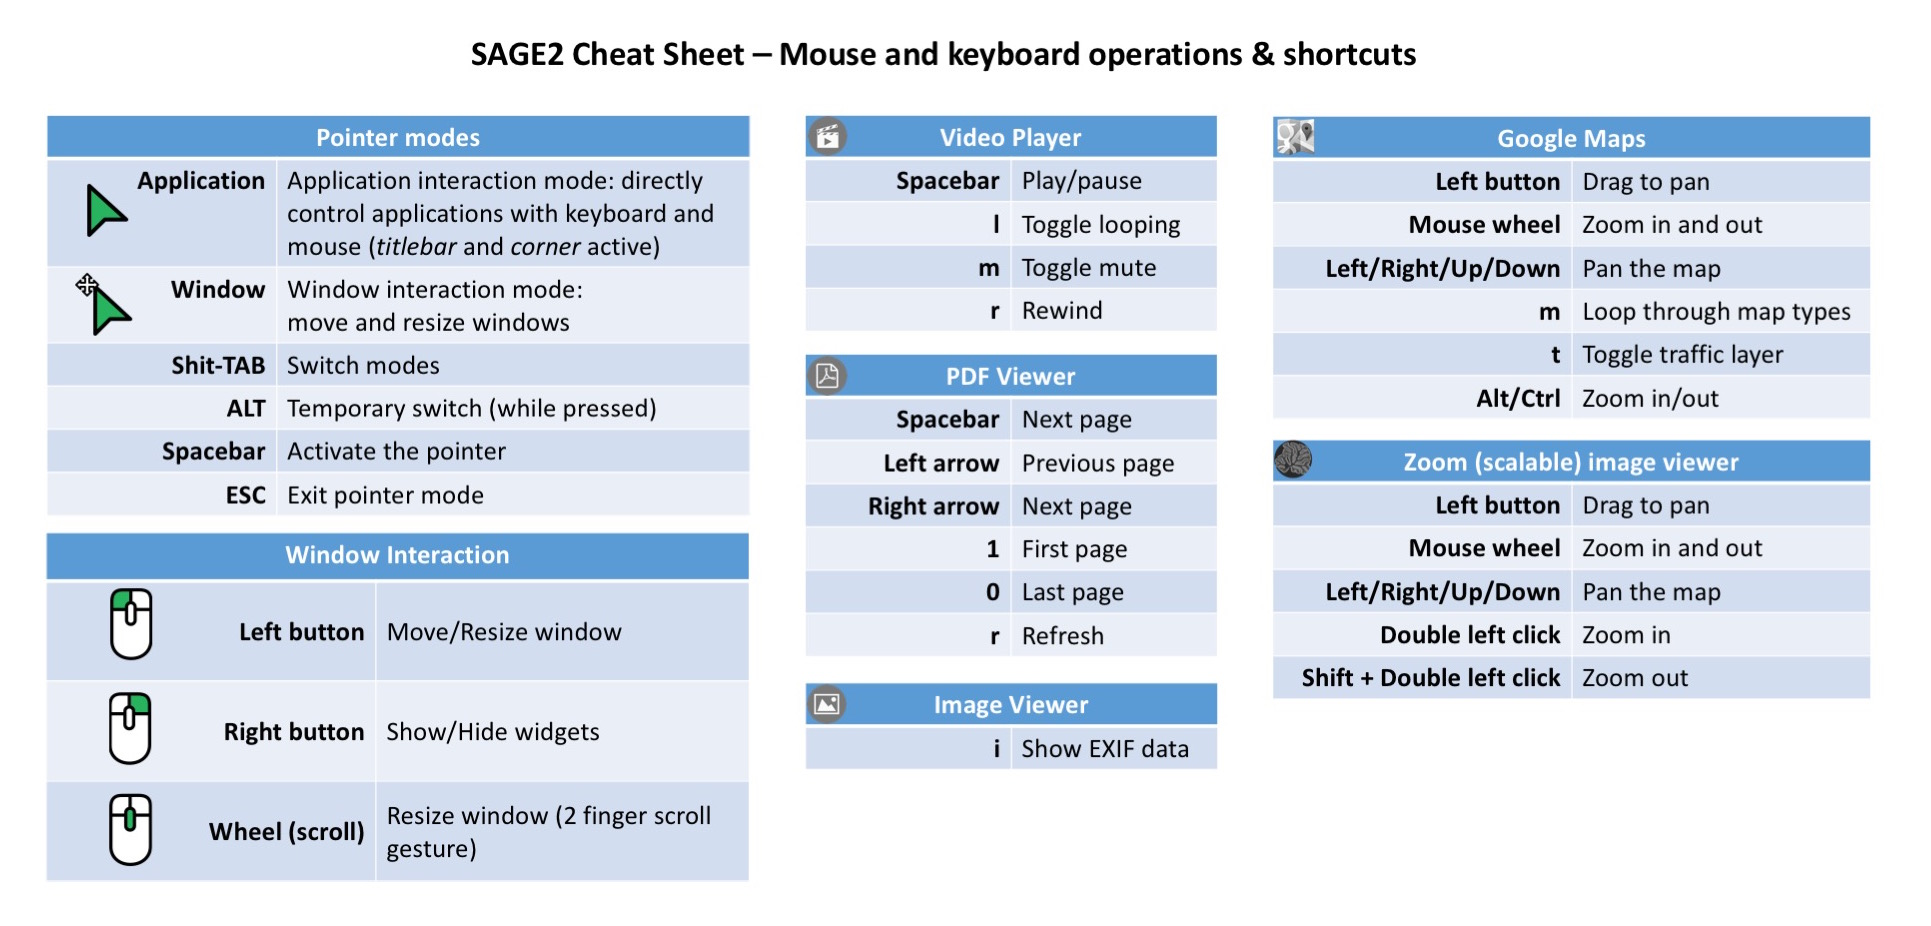
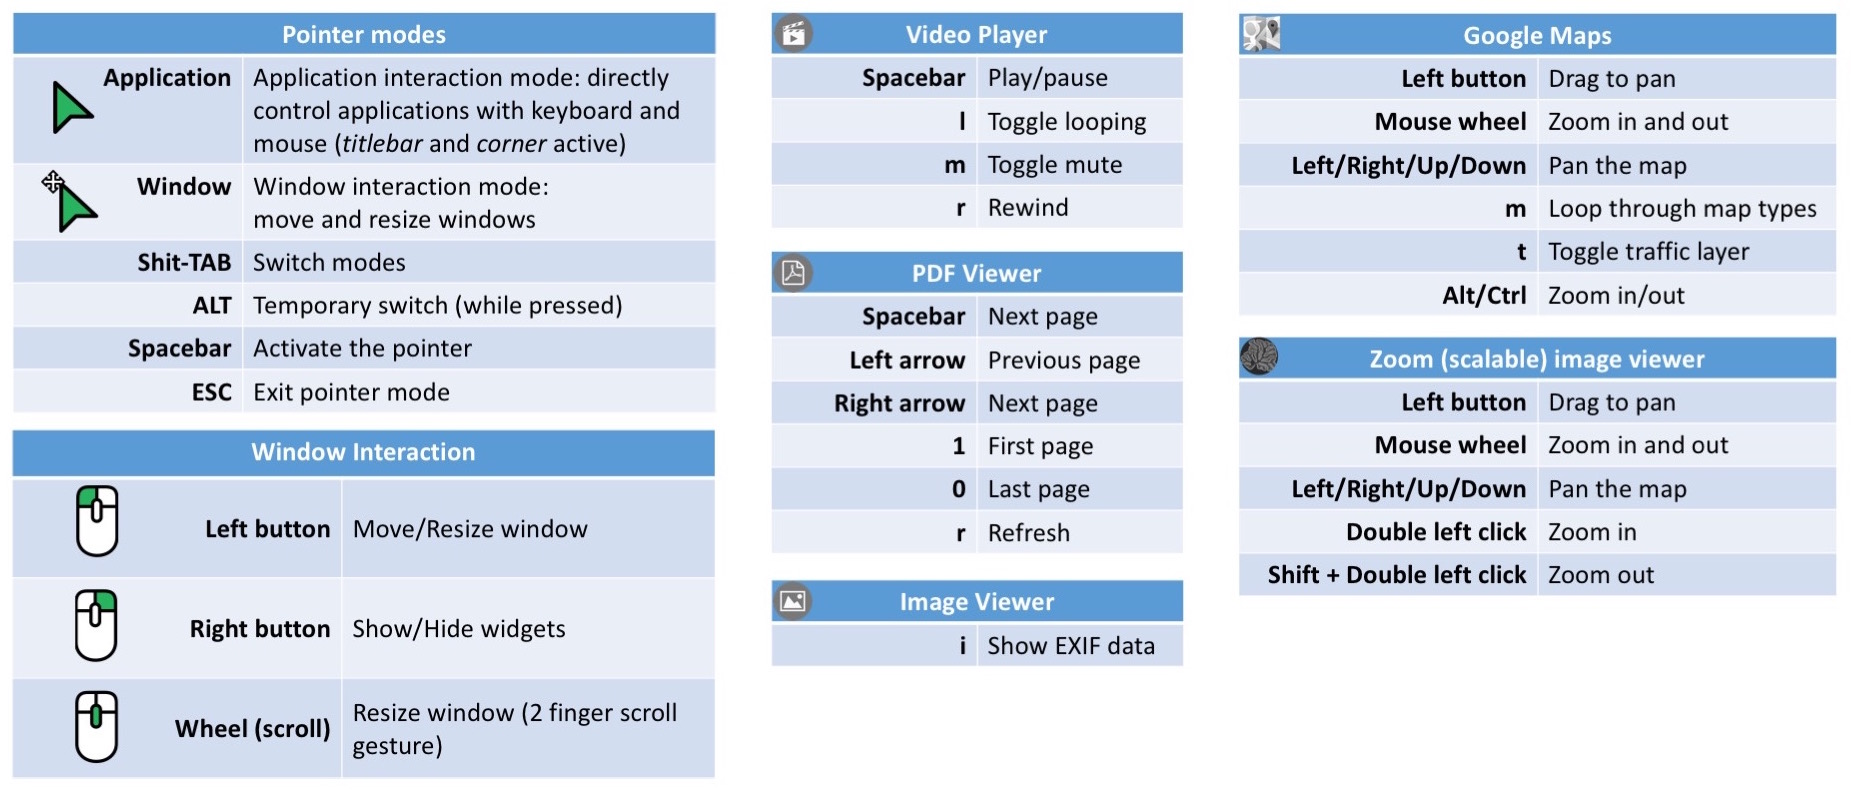
Added '?' to display help on wall and web UI
Former-commit-id: 3e8863e363bac5e73da5fb01a76b93083e2f13e6
Former-commit-id: 86abade9170f1f400ad29211a7ec49faf546160e

diff --git a/public/src/ui_builder.js b/public/src/ui_builder.js
@@ -532,7 +532,9 @@ function UIBuilder(json_cfg, clientID) {
 		var serverStatusDialog = this.buildMessageBox('serverStatusDialog', 'Server offline');
 		this.main.appendChild(serverStatusDialog);
 
-		var helpDialog = this.buildImageBox('helpDialog', '/images/cheat-sheet.jpg');
+		var helpDialog = this.buildImageBox('helpDialog',
+			'/images/cheat-sheet.jpg',
+			"Mouse and keyboard operations and shortcuts");
 		this.main.appendChild(helpDialog);
 
 		this.uiHidden = false;
@@ -601,8 +603,9 @@ function UIBuilder(json_cfg, clientID) {
 	* @method buildImageBox
 	* @param id {String} DOM id of the element created
 	* @param imgsrc {String} URL to the image
+	* @param title {String} text above the image
 	*/
-	this.buildImageBox = function(id, imgsrc) {
+	this.buildImageBox = function(id, imgsrc, title) {
 		// width of the image on the wall
 		var dw = this.json_cfg.totalWidth  * 0.50;
 
@@ -639,6 +642,15 @@ function UIBuilder(json_cfg, clientID) {
 		newDialogImage.style.height   = "auto";
 		newDialogCancel.appendChild(newDialogImage);
 
+		var newDialogWaitText = document.createElement("p");
+		newDialogWaitText.id  = id + "_text";
+		newDialogWaitText.textContent = title;
+		newDialogWaitText.style.fontSize = Math.round(1.8 * this.titleTextSize) + "px";
+		newDialogWaitText.style.color = "#FFFFFF";
+		newDialogWaitText.style.marginBottom = (this.titleBarHeight / 4).toString() + "px";
+		newDialogWaitText.style.textAlign  = "center";
+
+		newDialog.appendChild(newDialogWaitText);
 		newDialog.appendChild(newDialogCancel);
 		return newDialog;
 	};

diff --git a/public/src/SAGE2_UI.js b/public/src/SAGE2_UI.js
@@ -1372,6 +1372,17 @@ function escapeDialog(event) {
  * @param event {Event} event data
  */
 function noBackspace(event) {
+	// if keystrokes not captured and pressing  down '?'
+	//    then show help
+	if (event.key === "?"  && event.type === "keydown" && !keyEvents) {
+		webix.modalbox({
+			title: "Mouse and keyboard operations and shortcuts",
+			buttons: ["Ok"],
+			text: "<img src=/images/cheat-sheet.jpg width=100%>",
+			width: "90%"
+		});
+	}
+
 	// backspace keyCode is 8
 	// allow backspace in text box: target.type is defined for input elements
 	if (parseInt(event.keyCode, 10) === 8 && !event.target.type) {
